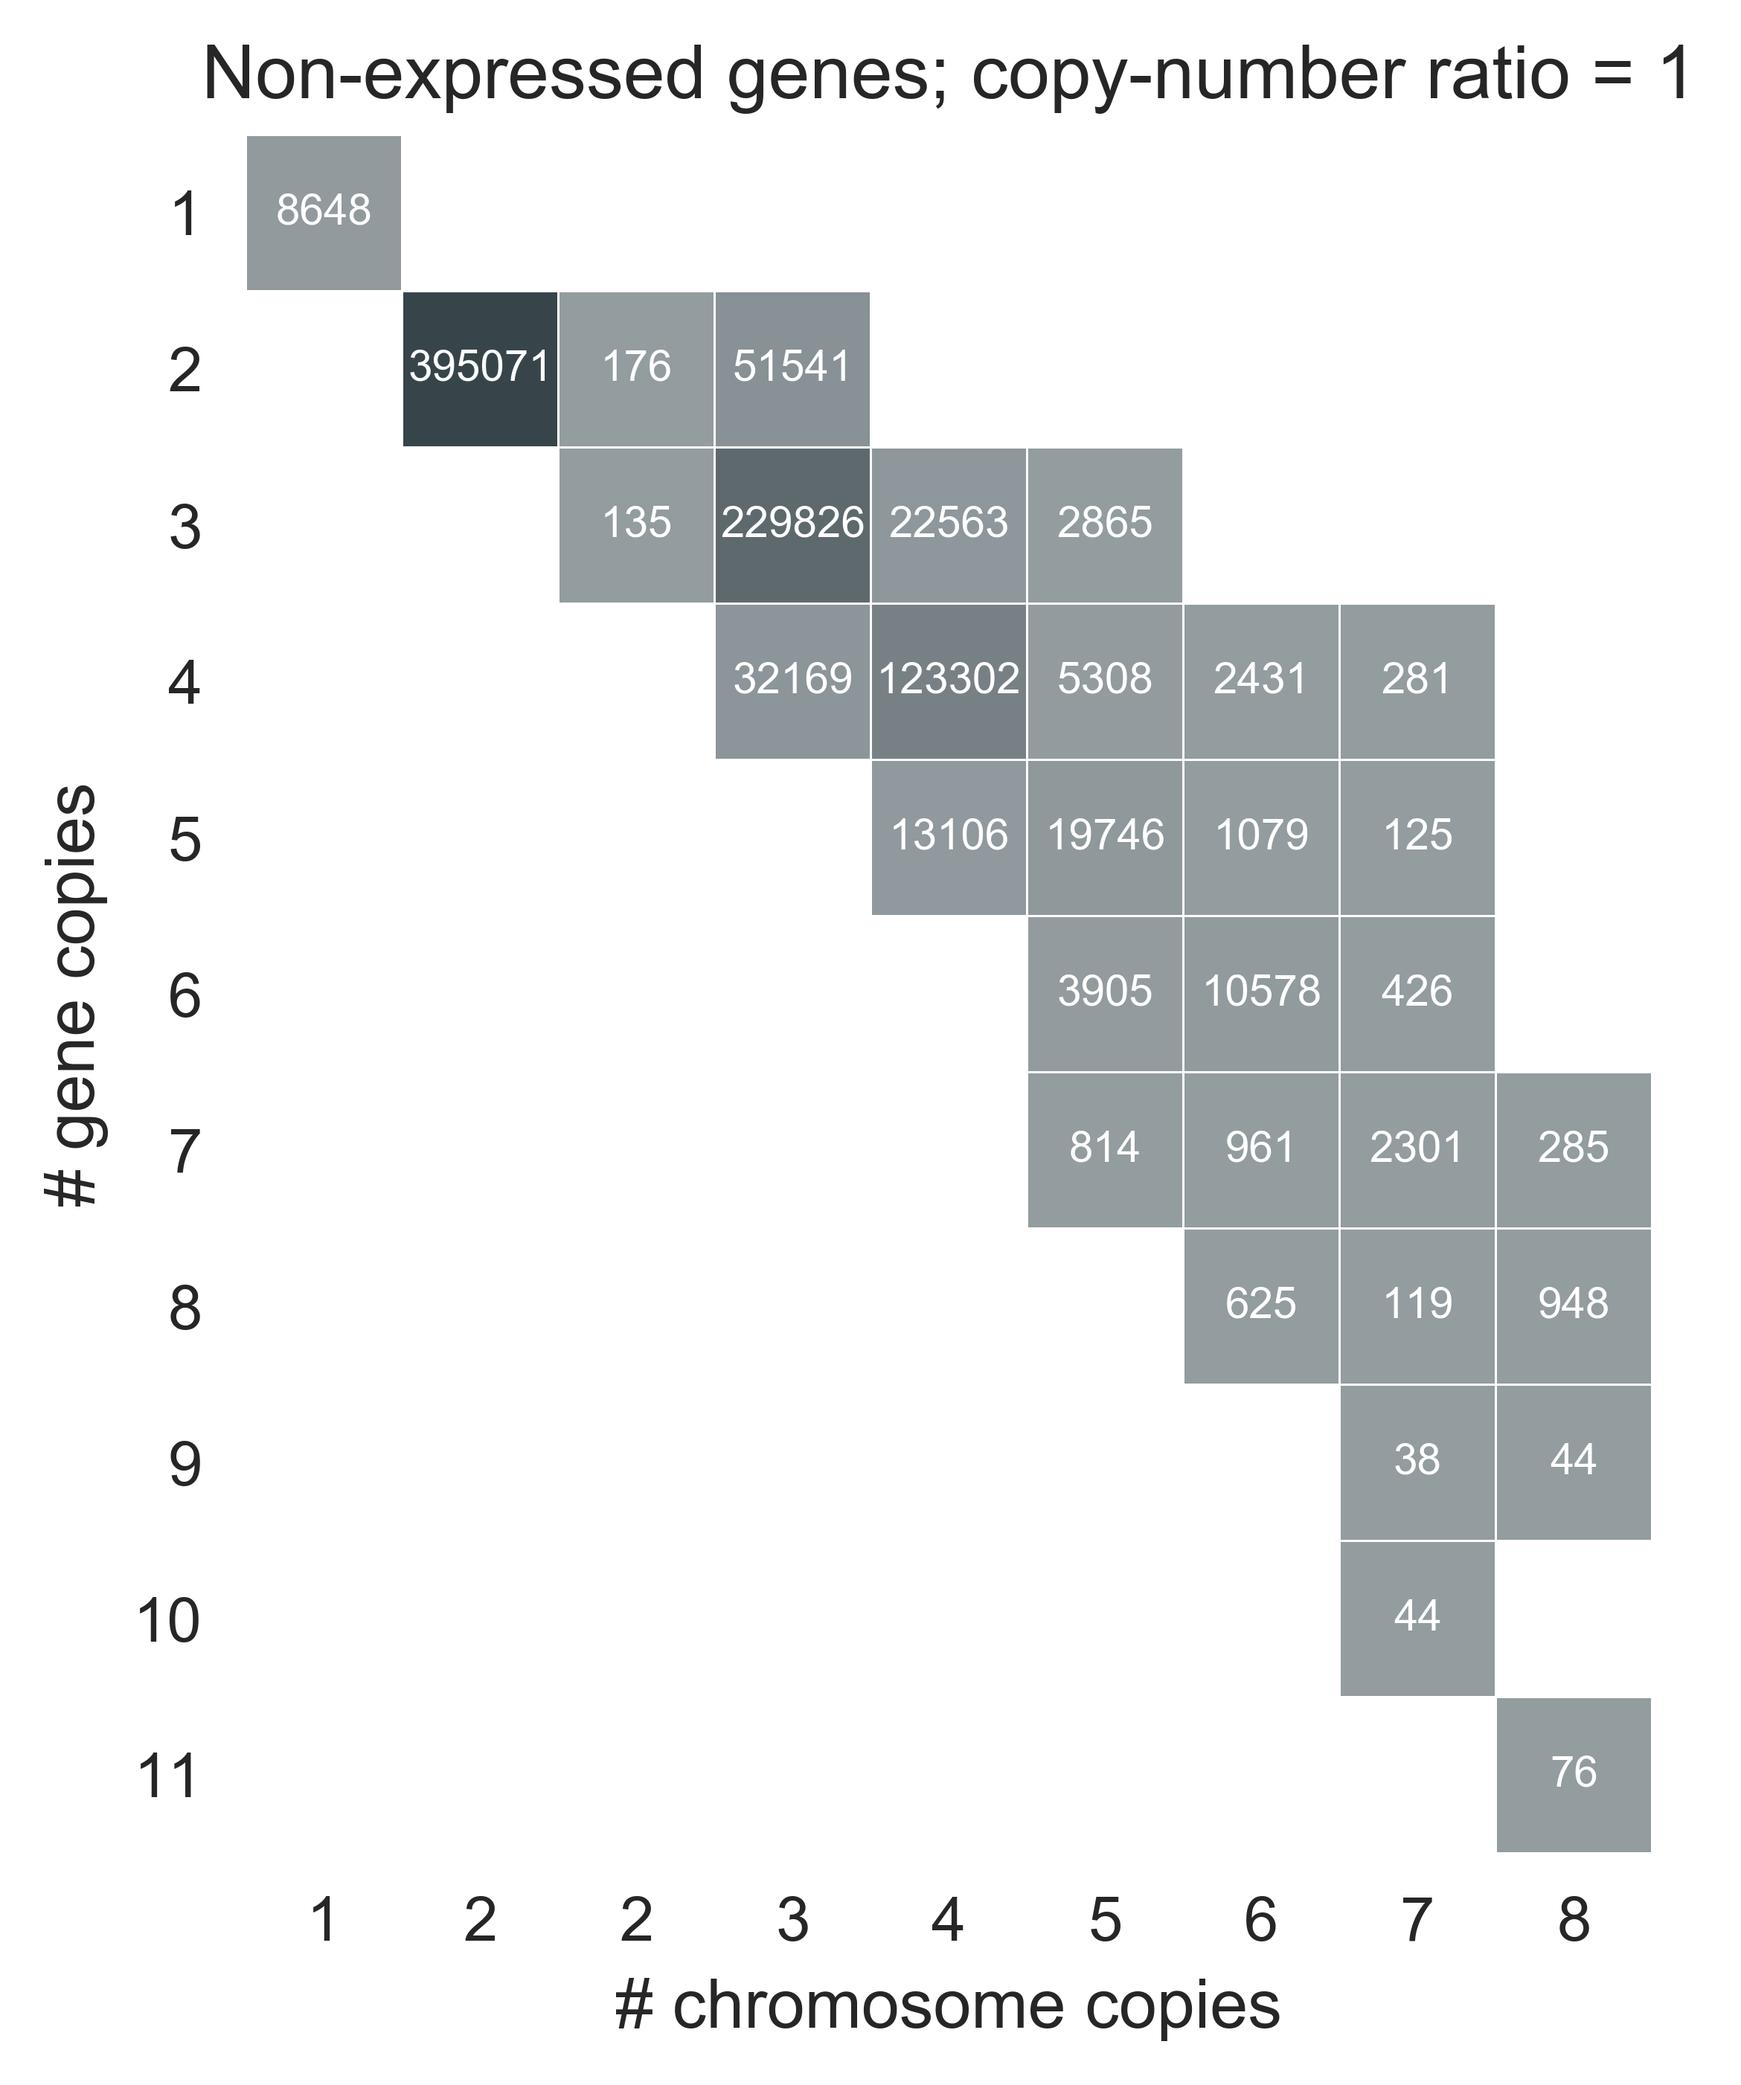
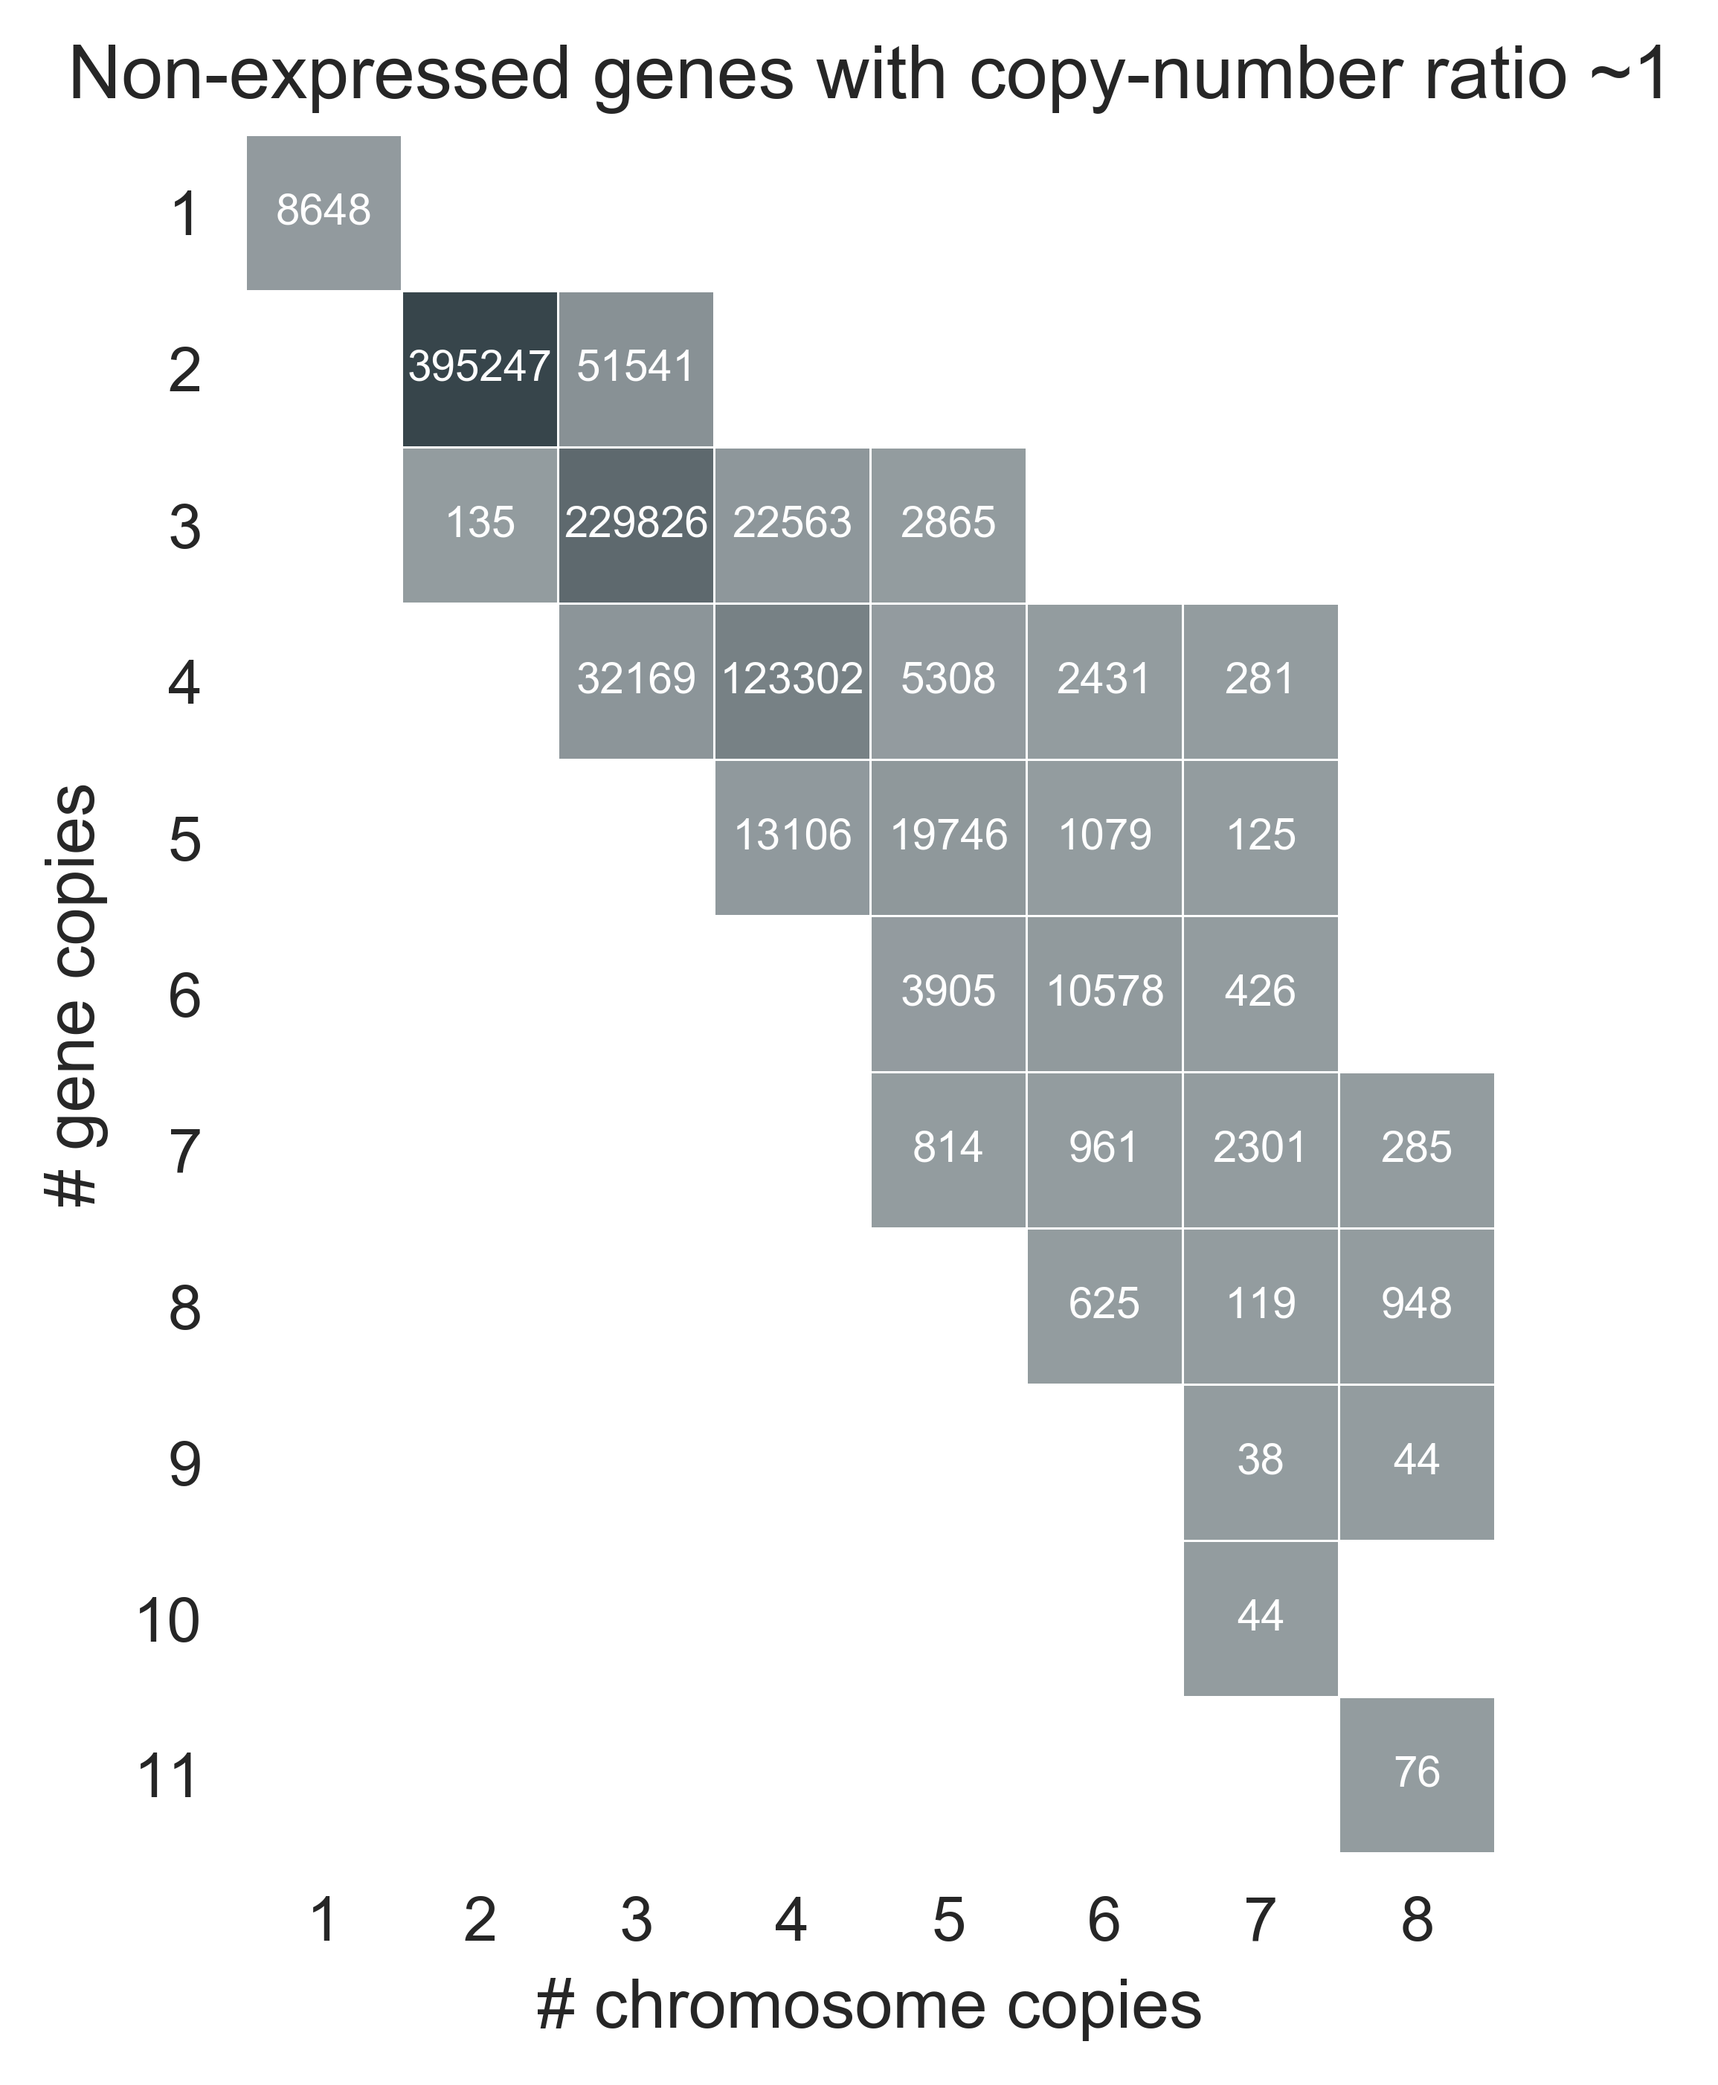
Bug fixed in chromosome copies estimation

diff --git a/scripts/crispy/cnv_effect_var.py b/scripts/crispy/cnv_effect_var.py
@@ -72,7 +72,7 @@ df = pd.concat([
 df = df.assign(chr=sgrna_lib.groupby('GENES')['CHRM'].first()[df['gene']].values)
 df = df[~df['chr'].isin(['X', 'Y'])]
 
-df = df.assign(chr_cnv=chr_copies.loc[[(s, c) for s, c in df[['sample', 'chr']].values]].values)
+df = df.assign(chr_cnv=chr_copies.loc[[(s, c) for s, c in df[['sample', 'chr']].values]].round(0).values)
 
 df = df.assign(ratio=df['cnv'] / df['chr_cnv'])
 
@@ -158,12 +158,12 @@ plt.gcf().set_size_inches(3, 3)
 plt.savefig('reports/ratio_aucs.png', bbox_inches='tight', dpi=600)
 plt.close('all')
 
-#
+# Ratios heatmap
 plot_df = df.query("ratio_bin == '1'").groupby(['cnv', 'chr_cnv'])['ratio'].count().reset_index()
 plot_df = pd.pivot_table(plot_df, index='cnv', columns='chr_cnv', values='ratio')
 plot_df.index, plot_df.columns = [str(int(i)) for i in plot_df.index], [str(int(i)) for i in plot_df.columns]
 
-sns.set(style='white', font_scale=1)
+sns.set_style('whitegrid')
 g = sns.heatmap(
     plot_df, center=0, cmap=sns.light_palette(bipal_dbgd[0], as_cmap=True), annot=True, fmt='g', square=True,
     linewidths=.3, cbar=False, annot_kws={'fontsize': 7}
@@ -171,7 +171,7 @@ g = sns.heatmap(
 plt.setp(g.get_yticklabels(), rotation=0)
 plt.xlabel('# chromosome copies')
 plt.ylabel('# gene copies')
-plt.title('Non-expressed genes; copy-number ratio = 1')
+plt.title('Non-expressed genes with copy-number ratio ~1')
 plt.gcf().set_size_inches(5, 5)
 plt.savefig('reports/ratio_counts_heatmap.png', bbox_inches='tight', dpi=600)
 plt.close('all')
